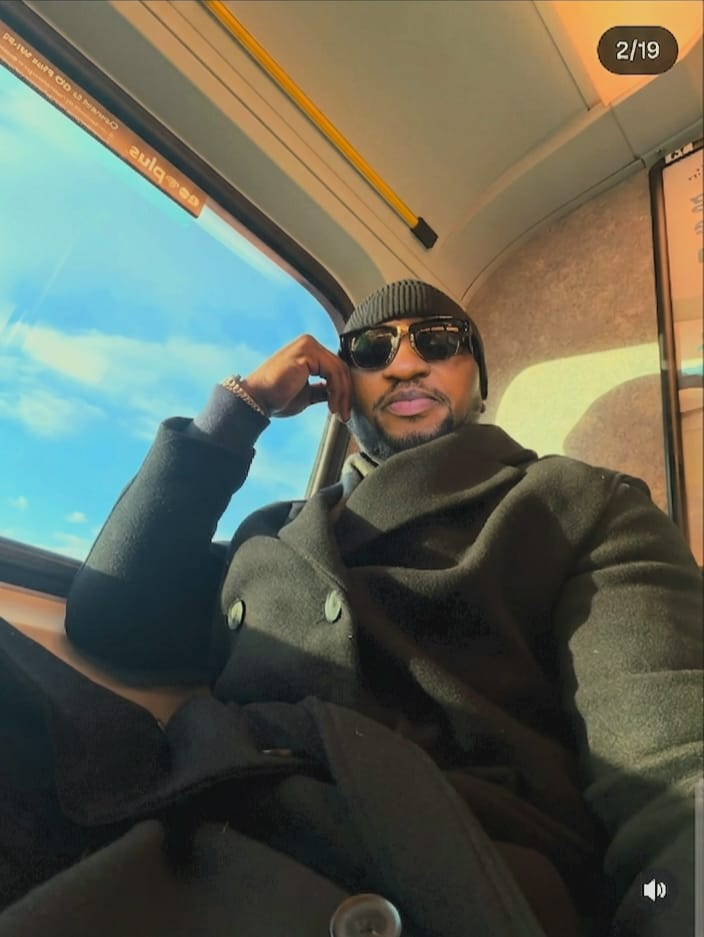
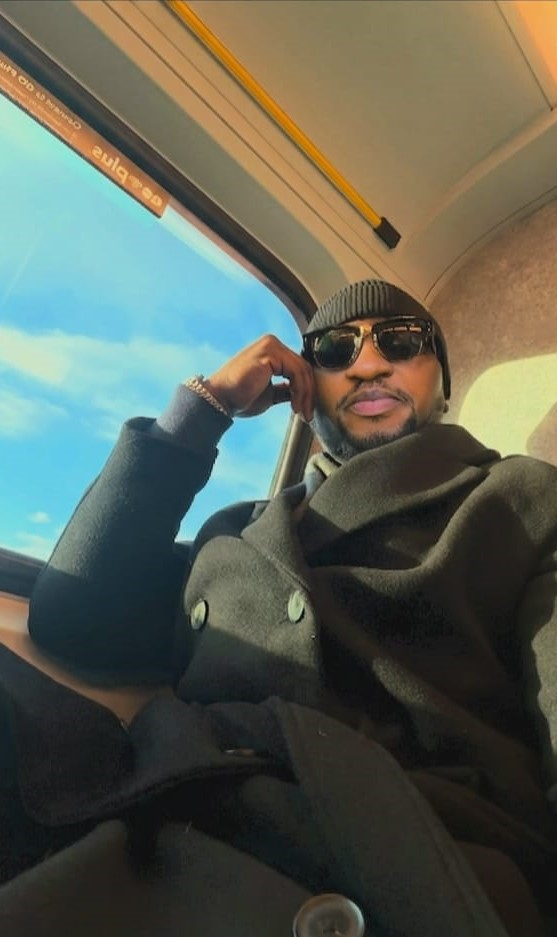
first commit

diff --git a/index.html b/index.html
@@ -6,14 +6,14 @@
     <title>AI Website Mentorship | Dr. Gideon Alugbue</title>
     <style>
     :root {
-        --primary-blue: #1e3a8a;
-        --accent-red: #c00000;
+        --primary-blue: #0640df;
+        --accent-red: #f10505;
         --bg-light: #f1f5f9;
         --white: #ffffff;
     }
 
     * { box-sizing: border-box; margin: 0; padding: 0; font-family: 'Helvetica Neue', Arial, sans-serif; }
-    body { background-color: var(--bg-light); color: #334155; line-height: 1.5; overflow-x: hidden; }
+    body { background-color: rgb(1, 0, 14); color: #334155; line-height: 1.5; overflow-x: hidden; }
 
     /* --- TOP BAR & NAV --- */
     .urgency-bar {
@@ -29,7 +29,7 @@
     }
 
     nav {
-        background: var(--white);
+        /* background: var(--white); */
         padding: 15px 5%;
         display: flex;
         justify-content: space-between;
@@ -47,7 +47,7 @@
         grid-template-columns: 1.2fr 1fr;
         gap: 40px;
         align-items: center;
-        background: white;
+        /* background: white; */
         position: relative;
     }
     .hero h1 { font-size: 2.8rem; color: var(--primary-blue); line-height: 1.1; margin-bottom: 20px; font-weight: 800; }
@@ -109,7 +109,7 @@
 
     .journey-item { display: flex; gap: 15px; margin-bottom: 20px; }
     .journey-item h3 { color: var(--accent-red); font-size: 0.9rem; text-transform: uppercase; }
-    .journey-item p { color: #64748b; font-size: 1rem; }
+    .journey-item p { color: #b2cdf0; font-size: 1rem; }
 
     /* --- VIDEOS --- */
     .video-grid {
@@ -133,6 +133,13 @@
         grid-template-columns: repeat(4, 1fr);
         gap: 15px;
         padding: 0 5% 50px;
+    }
+
+    .features h2{
+    font-size: 2rem;
+    color: var(--primary-blue);
+    text-align: center;
+    margin: 10rem 0 3rem;
     }
     .feature-box { 
         text-align: center; 
@@ -229,8 +236,9 @@
 
     <section class="hero">
         <div class="hero-content">
-            <h1>From Medical Dreams to 7-Figure Tech Reality: Learn to Build & Sell AI Websites!</h1>
-            <p>Master building & selling high-end websites using AI to companies, even starting with just a smartphone or computer. Secure your slot for ₦2,999 (Value: ₦100,000).</p>
+            <h1>From Medical Dreams to 7-Figure Tech Reality. <br> By the end of this 3days intensive training you will:</h1>
+            <p>Master How Everyday Nigerians Are Quietly Building 7-Figure Tech Careers in tech. <br> Make over $1000 in 9-months with your <b style="color: var(--primary-blue);">Smartphone</b> and computer(If you have one) <br>
+            <b style="color: var(--primary-blue); font-size: 2rem;">No prior tech skill required.</b></p>
             <a href="#form" class="hero-cta">SECURE MY SLOT NOW! (₦2,999 Only)</a>
             
             <div class="profile-card">
@@ -254,8 +262,10 @@
             <div>
                 <div class="label"><span>Before</span></div> <br>
                 <div class="before-after">
-                    <img class="img-placeholder" src="images/IMG-20260419-WA0020.jpg" alt="Before Image">
-                    <img class="img-placeholder" src="images/IMG-20260427-WA0006.jpg" alt="">
+                    <img class="img-placeholder" src="images/IMG-20260427-WA0004.jpg" alt="Before Image">
+                    <img class="img-placeholder" src="images/IMG-20260427-WA0005.jpg" alt="Before Image">
+                    <img class="img-placeholder" src="images/IMG-20260507-WA0000.jpg" alt="Before Image">
+                    <img src="images/IMG-20260507-WA0001.jpg" alt="Before Image" class="img-placeholder">
                 </div>
                 <div class="story-details">
                 <div class="journey-item">
@@ -284,10 +294,13 @@
             <div>
                 <div class="label"><span>After</span></div> <br>
                 <div class="before-after"> 
-                    <img class="img-placeholder" src="images/IMG-20260325-WA0005.jpg" alt="">
-                    <img class="img-placeholder" src="images/IMG-20260329-WA0006.jpg" alt="">
-                    <img  class="img-placeholder" src="images/IMG-20260408-WA0000.jpg" alt="">
-                    <img class="img-placeholder" src="images/IMG-20260408-WA0001.jpg" alt="">
+                    <img class="img-placeholder" src="images/IMG-20260325-WA0005.jpg" alt="After Image">
+                    <img class="img-placeholder" src="images/IMG-20260402-WA0003.jpg" alt="After Image">
+                    <img  class="img-placeholder" src="images/IMG-20260408-WA0003.jpg" alt="After Image">
+                    <img class="img-placeholder" src="images/IMG-20260408-WA0001.jpg" alt="After Image">
+                    <img src="images/IMG-20260418-WA0000_1.jpg" alt="After Image" class="img-placeholder">
+                    <img src="images/IMG-20260504-WA0021.jpg" alt="`After Image" class="img-placeholder">
+
                 </div>
             </div>
         </div>  
@@ -313,7 +326,7 @@
         </div>
         
         <div class="feature-grid">
-            <div class="feature-box"><h4>AI Website <br> Architecture</h4></div>
+            <div class="feature-box"><h4></h4></div>
             <div class="feature-box"><h4>High-End <br> Pitching</h4></div>
             <div class="feature-box"><h4>Dollar <br> Payments</h4></div>
             <div class="feature-box"><h4>Smartphone <br> Workflow</h4></div>